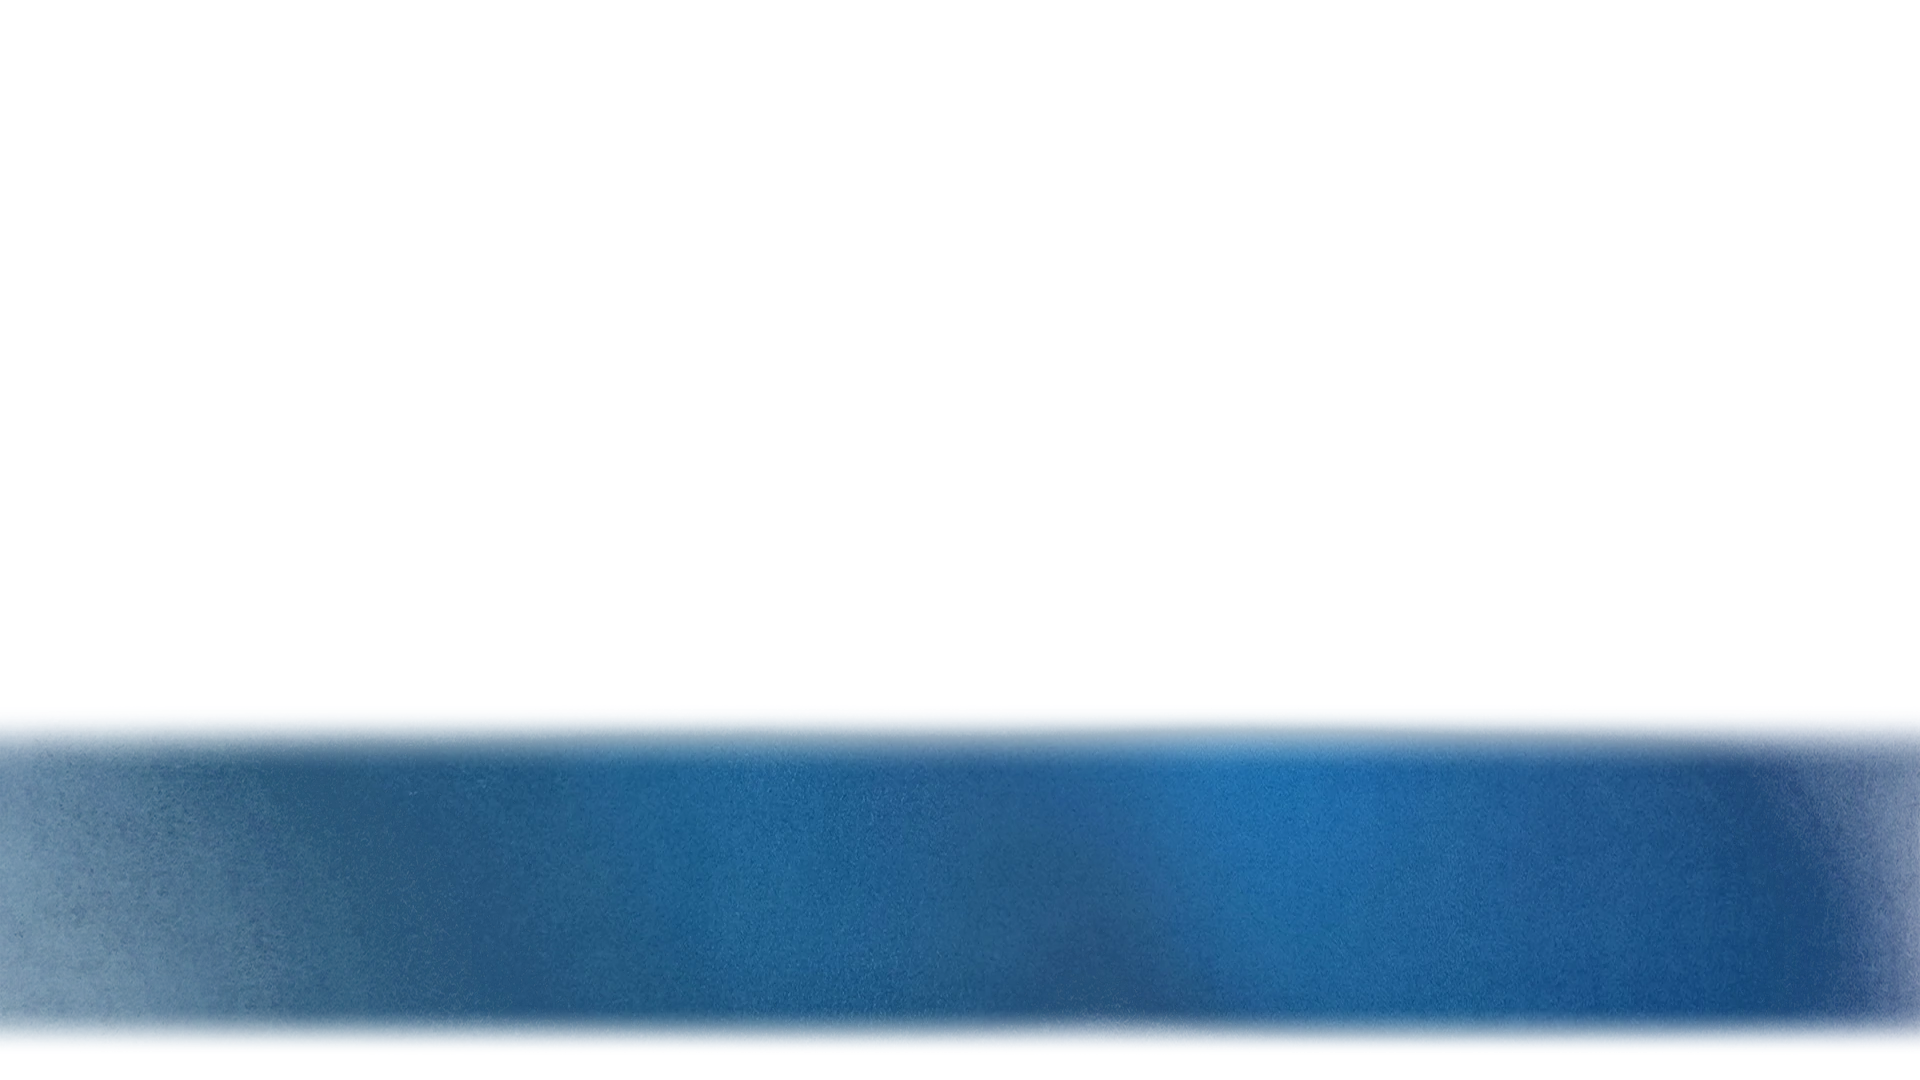
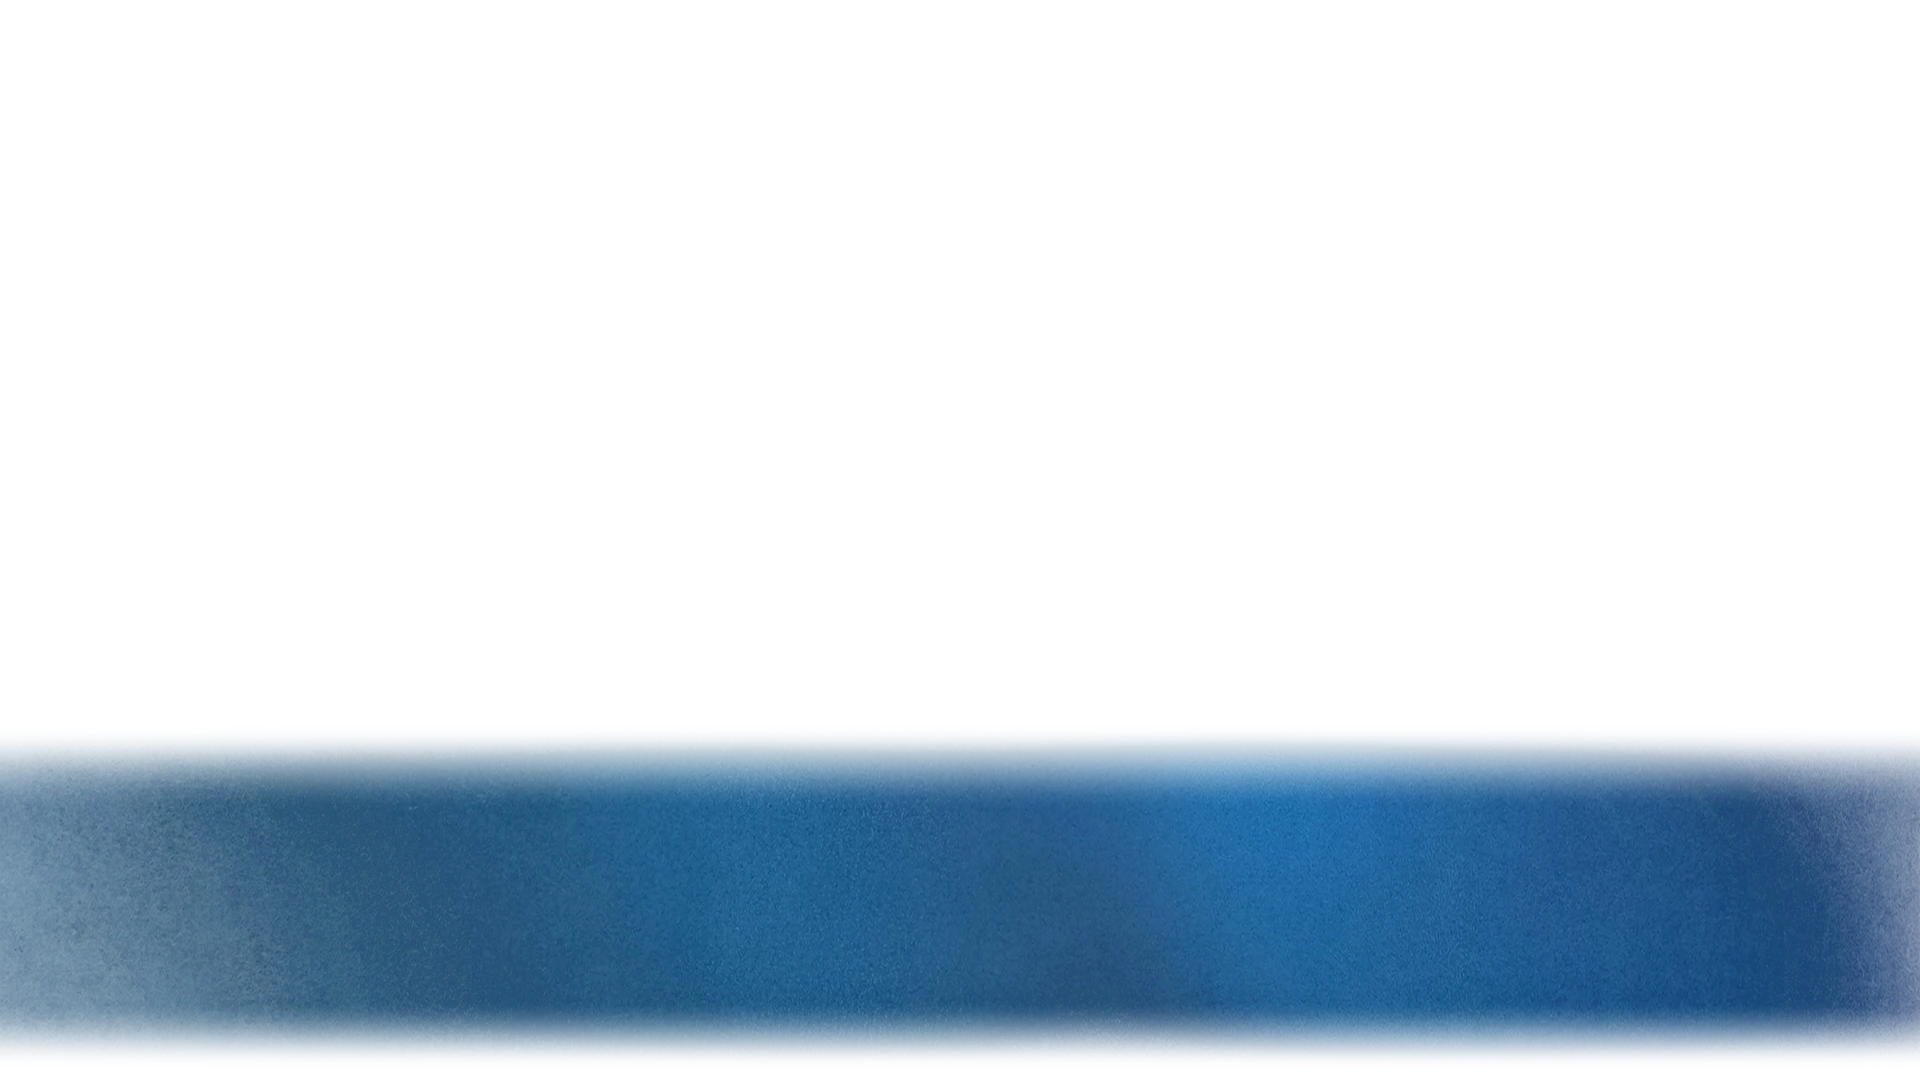
fix: letra centrada na faixa do tema Rodapé, com ou sem título

Changed region(s): [[0.0, 0.6417, 1.0, 0.7333], [0.0, 0.9472, 1.0, 0.9778]]

diff --git a/public/overlay.css b/public/overlay.css
@@ -159,9 +159,11 @@ body, html {
 .layout-full .screen-text-wrap { flex: 1; align-items: center; }
 
 /* Tela cheia com o texto na parte de baixo (ex: imagem com faixa no rodapé, no telão) */
-.layout-full.text-bottom .screen-box { justify-content: flex-end; padding-bottom: 6.5vh; }
-.layout-full.text-bottom .screen-text-wrap { flex: 0 0 auto; min-height: 14vh; align-items: center; }
+/* A letra (com o título, se tiver) fica centrada no terço de baixo da tela: o meio dele é o meio da faixa */
+.layout-full.text-bottom .screen-box { justify-content: center; padding-top: 66.667vh; padding-bottom: 0; }
+.layout-full.text-bottom .screen-text-wrap { flex: 0 0 auto; align-items: center; }
 .layout-full.text-bottom .screen-title { margin-bottom: 1.5vh; }
+.layout-full.text-bottom .screen-title:empty, .layout-full.text-bottom .screen-label:empty { display: none; }
 
 /* Faixa embaixo: caixa no rodapé, por cima da câmera */
 .layout-lower { align-items: flex-end; padding: 0 1.5% 12px; }
